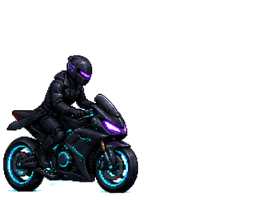
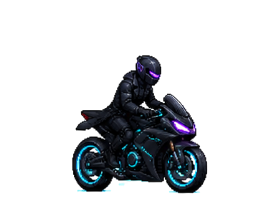
fix(city): polish motorcycle animation fluidity

diff --git a/src/components/city/Motorcycle.tsx b/src/components/city/Motorcycle.tsx
@@ -41,7 +41,7 @@ const ACTIONS: Record<
 };
 
 type MotorcycleAction = (typeof ACTIONS)[MotorcyclePhase];
-const MOTORCYCLE_ASSET_VERSION = "clean-v3";
+const MOTORCYCLE_ASSET_VERSION = "clean-v4";
 
 function getFrameSource(action: MotorcycleAction, frameIndex: number) {
   return `${action.directory}/${frameIndex}.png?v=${MOTORCYCLE_ASSET_VERSION}`;
@@ -75,17 +75,46 @@ function SpriteFrame({
   }, []);
 
   useEffect(() => {
-    if (shouldReduceMotion) return undefined;
+    setFrameIndex(0);
+  }, [action.directory]);
 
-    const interval = window.setInterval(() => {
-      setFrameIndex((currentFrame) => {
-        if (action.loop) return (currentFrame + 1) % action.frames;
-        return Math.min(currentFrame + 1, action.frames - 1);
-      });
-    }, 1000 / action.fps);
+  useEffect(() => {
+    if (shouldReduceMotion) {
+      setFrameIndex(0);
+      return undefined;
+    }
 
-    return () => window.clearInterval(interval);
-  }, [action.fps, action.frames, action.loop, shouldReduceMotion]);
+    const frameDuration = 1000 / action.fps;
+    let animationFrameId = 0;
+    let startTime: number | null = null;
+
+    const tick = (timestamp: number) => {
+      startTime ??= timestamp;
+
+      const elapsed = timestamp - startTime;
+      const nextFrame = action.loop
+        ? Math.floor(elapsed / frameDuration) % action.frames
+        : Math.min(Math.floor(elapsed / frameDuration), action.frames - 1);
+
+      setFrameIndex((currentFrame) =>
+        currentFrame === nextFrame ? currentFrame : nextFrame,
+      );
+
+      if (action.loop || nextFrame < action.frames - 1) {
+        animationFrameId = window.requestAnimationFrame(tick);
+      }
+    };
+
+    animationFrameId = window.requestAnimationFrame(tick);
+
+    return () => window.cancelAnimationFrame(animationFrameId);
+  }, [
+    action.directory,
+    action.fps,
+    action.frames,
+    action.loop,
+    shouldReduceMotion,
+  ]);
 
   return (
     <div

diff --git a/src/components/city/CityView.tsx b/src/components/city/CityView.tsx
@@ -128,7 +128,7 @@ function SpriteBackdrop({
           offset={skylineOffset}
           copies={3}
           className="z-[1] h-[70vh] min-h-[390px]"
-          imageClassName="h-full w-[160vw] max-w-none shrink-0 object-fill object-bottom opacity-90 brightness-[0.86] saturate-[0.98]"
+          imageClassName="h-full w-auto max-w-none shrink-0 object-contain object-bottom opacity-90 brightness-[0.86] saturate-[0.98]"
         />
 
         <div className="pointer-events-none absolute inset-x-0 bottom-0 z-[2] h-[38vh] bg-[radial-gradient(ellipse_at_48%_55%,rgba(168,85,247,0.2),transparent_56%),radial-gradient(ellipse_at_68%_58%,rgba(34,211,238,0.1),transparent_50%),linear-gradient(to_bottom,transparent_0%,rgba(38,20,74,0.32)_34%,rgba(10,6,24,0.24)_78%,transparent_100%)]" />
@@ -138,17 +138,16 @@ function SpriteBackdrop({
           offset={cityRowOffset}
           copies={5}
           className="z-[3] h-[24vh] min-h-[150px]"
-          imageClassName="h-full w-[160vw] max-w-none shrink-0 object-fill object-bottom opacity-100 brightness-[0.95] saturate-[1.04]"
+          imageClassName="h-full w-auto max-w-none shrink-0 object-contain object-bottom opacity-100 brightness-[0.95] saturate-[1.04]"
         />
       </div>
 
-      <motion.img
+      <RepeatedSpriteLayer
         src="/assets/road/road-base.png"
-        alt=""
-        className="pointer-events-none absolute bottom-0 left-0 z-[3] h-[18vh] min-h-[118px] w-[230%] max-w-none object-fill object-center opacity-100 brightness-[0.9] saturate-[1.02] md:h-[16vh] md:min-h-[120px]"
-        animate={{ x: -roadOffset }}
-        transition={CITY_ROW_TRANSITION}
-        aria-hidden="true"
+        offset={roadOffset}
+        copies={4}
+        className="z-[3] h-[18vh] min-h-[118px] md:h-[16vh] md:min-h-[120px]"
+        imageClassName="h-full w-auto max-w-none shrink-0 object-contain object-bottom opacity-100 brightness-[0.9] saturate-[1.02]"
       />
     </>
   );

diff --git a/src/components/city/MobileCityControls.tsx b/src/components/city/MobileCityControls.tsx
@@ -19,23 +19,19 @@ export default function MobileCityControls({
   onEnter,
 }: MobileCityControlsProps) {
   return (
-    <div className="fixed bottom-0 left-0 z-40 w-[100dvw] px-3 pb-[calc(0.75rem+env(safe-area-inset-bottom))] pt-3 md:hidden">
-      <div className="relative h-[5.5rem] w-full rounded-[1.5rem] border border-fuchsia-400/25 bg-black/70 p-2 shadow-[0_0_28px_rgba(168,85,247,0.25)] backdrop-blur-xl">
+    <div className="fixed bottom-0 left-3 z-40 box-border w-[calc(100vw-1.5rem)] max-w-[360px] overflow-hidden pb-[calc(0.75rem+env(safe-area-inset-bottom))] pt-3 md:hidden">
+      <div className="grid h-[5.5rem] w-full grid-cols-[2.5rem_minmax(0,1fr)_2.5rem] items-center gap-2 rounded-[1.5rem] border border-fuchsia-400/25 bg-black/70 p-2 shadow-[0_0_28px_rgba(168,85,247,0.25)] backdrop-blur-xl">
         <button
           type="button"
           onClick={onPrev}
           disabled={activeIndex === 0}
-          className="absolute flex h-10 w-10 -translate-y-1/2 items-center justify-center rounded-2xl border border-fuchsia-400/20 bg-white/5 text-white transition hover:border-fuchsia-300/40 hover:bg-fuchsia-500/10 focus-visible:outline focus-visible:outline-2 focus-visible:outline-cyan-300 disabled:cursor-not-allowed disabled:opacity-35"
-          style={{ left: "0.5rem", top: "50%" }}
+          className="flex h-10 w-10 items-center justify-center rounded-2xl border border-fuchsia-400/20 bg-white/5 text-white transition hover:border-fuchsia-300/40 hover:bg-fuchsia-500/10 focus-visible:outline focus-visible:outline-2 focus-visible:outline-cyan-300 disabled:cursor-not-allowed disabled:opacity-35"
           aria-label="Previous stop"
         >
           <ArrowLeft className="h-5 w-5" />
         </button>
 
-        <div
-          className="absolute min-w-0 text-center"
-          style={{ left: "3.5rem", right: "3.5rem", top: "0.5rem" }}
-        >
+        <div className="min-w-0 text-center">
           <div className="flex min-w-0 items-center justify-center gap-2">
             <p className="truncate text-[10px] uppercase tracking-[0.24em] text-cyan-300/80">
               {activeSection.title}
@@ -59,8 +55,7 @@ export default function MobileCityControls({
           type="button"
           onClick={onNext}
           disabled={activeIndex === total - 1}
-          className="absolute flex h-10 w-10 -translate-y-1/2 items-center justify-center rounded-2xl border border-fuchsia-400/20 bg-white/5 text-white transition hover:border-fuchsia-300/40 hover:bg-fuchsia-500/10 focus-visible:outline focus-visible:outline-2 focus-visible:outline-cyan-300 disabled:cursor-not-allowed disabled:opacity-35"
-          style={{ right: "0.5rem", top: "50%" }}
+          className="flex h-10 w-10 items-center justify-center rounded-2xl border border-fuchsia-400/20 bg-white/5 text-white transition hover:border-fuchsia-300/40 hover:bg-fuchsia-500/10 focus-visible:outline focus-visible:outline-2 focus-visible:outline-cyan-300 disabled:cursor-not-allowed disabled:opacity-35"
           aria-label="Next stop"
         >
           <ArrowRight className="h-5 w-5" />